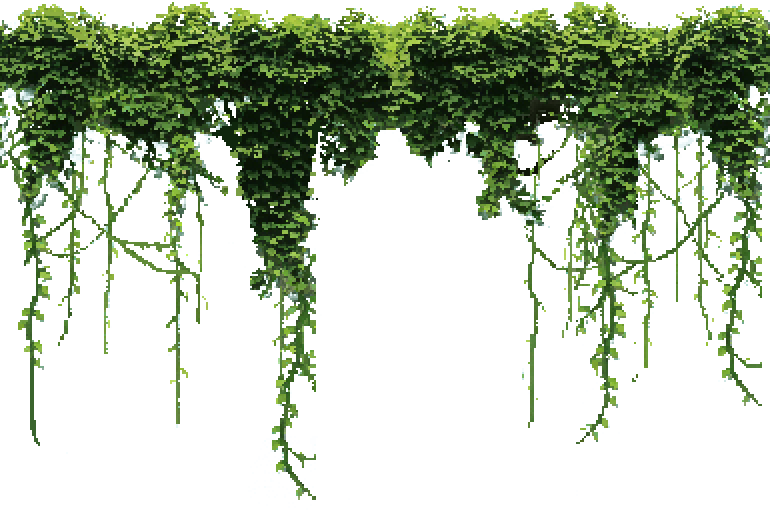
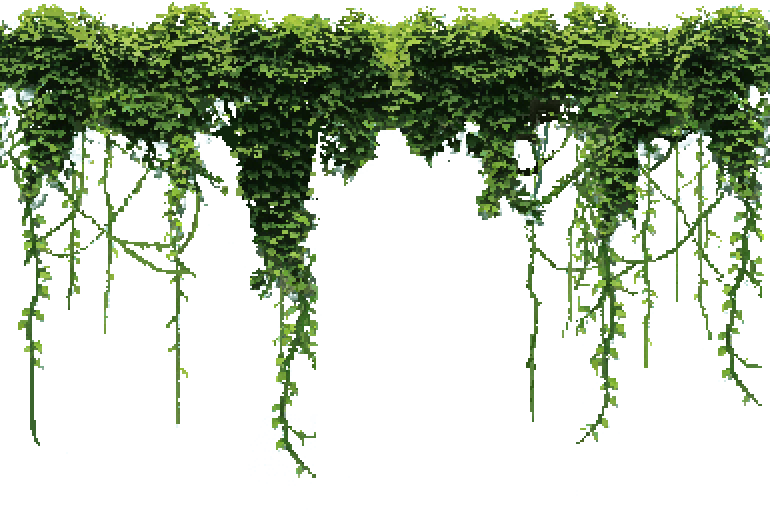
替换轮播背景图、修正横幅图片

diff --git a/src/main/webapp/js/home.js b/src/main/webapp/js/home.js
@@ -34,10 +34,10 @@ document.addEventListener('DOMContentLoaded', () => {
     }
 
     const bgImages = [
-        "https://picsum.photos/id/1015/1920/1080",
-        "https://picsum.photos/id/1016/1920/1080",
-        "https://picsum.photos/id/1018/1920/1080",
-        "https://picsum.photos/id/1019/1920/1080"
+        "images/bg_field.png",
+        "images/bg_forest.png",
+        "images/bg_indoor.png",
+        "images/bg_school.png"
     ];
     const randomBg = bgImages[Math.floor(Math.random() * bgImages.length)];
     document.body.style.backgroundImage = `url(${randomBg})`;